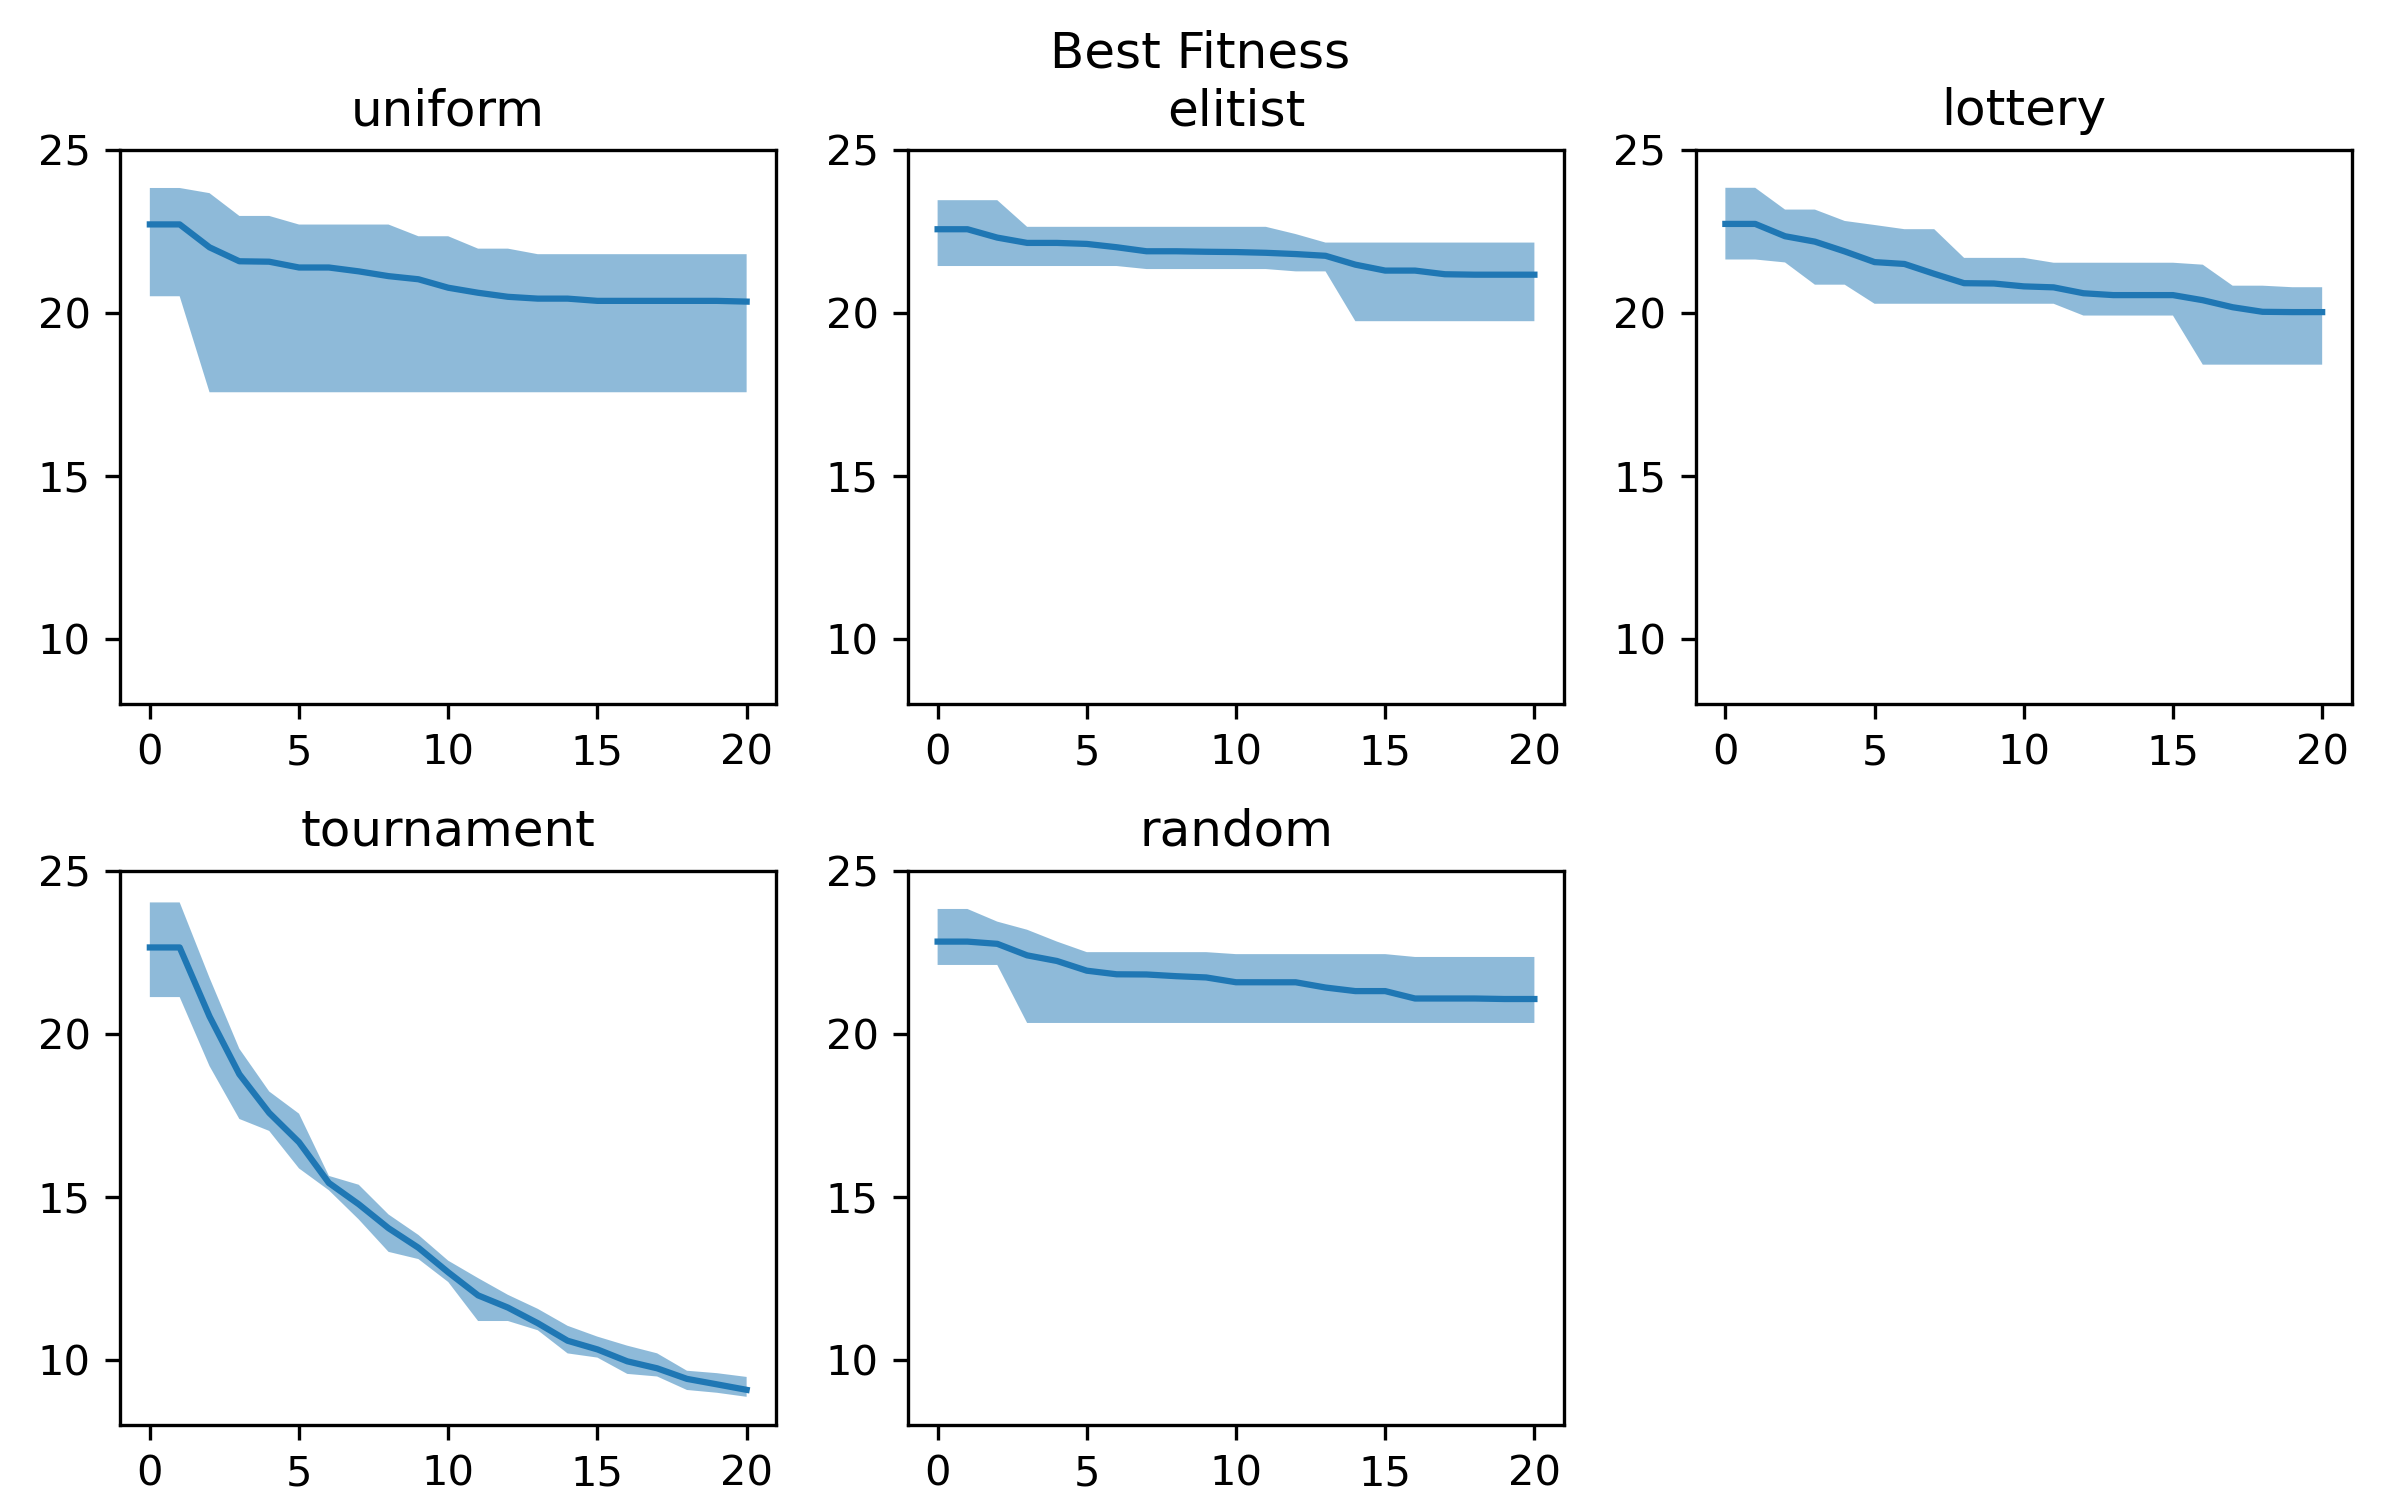
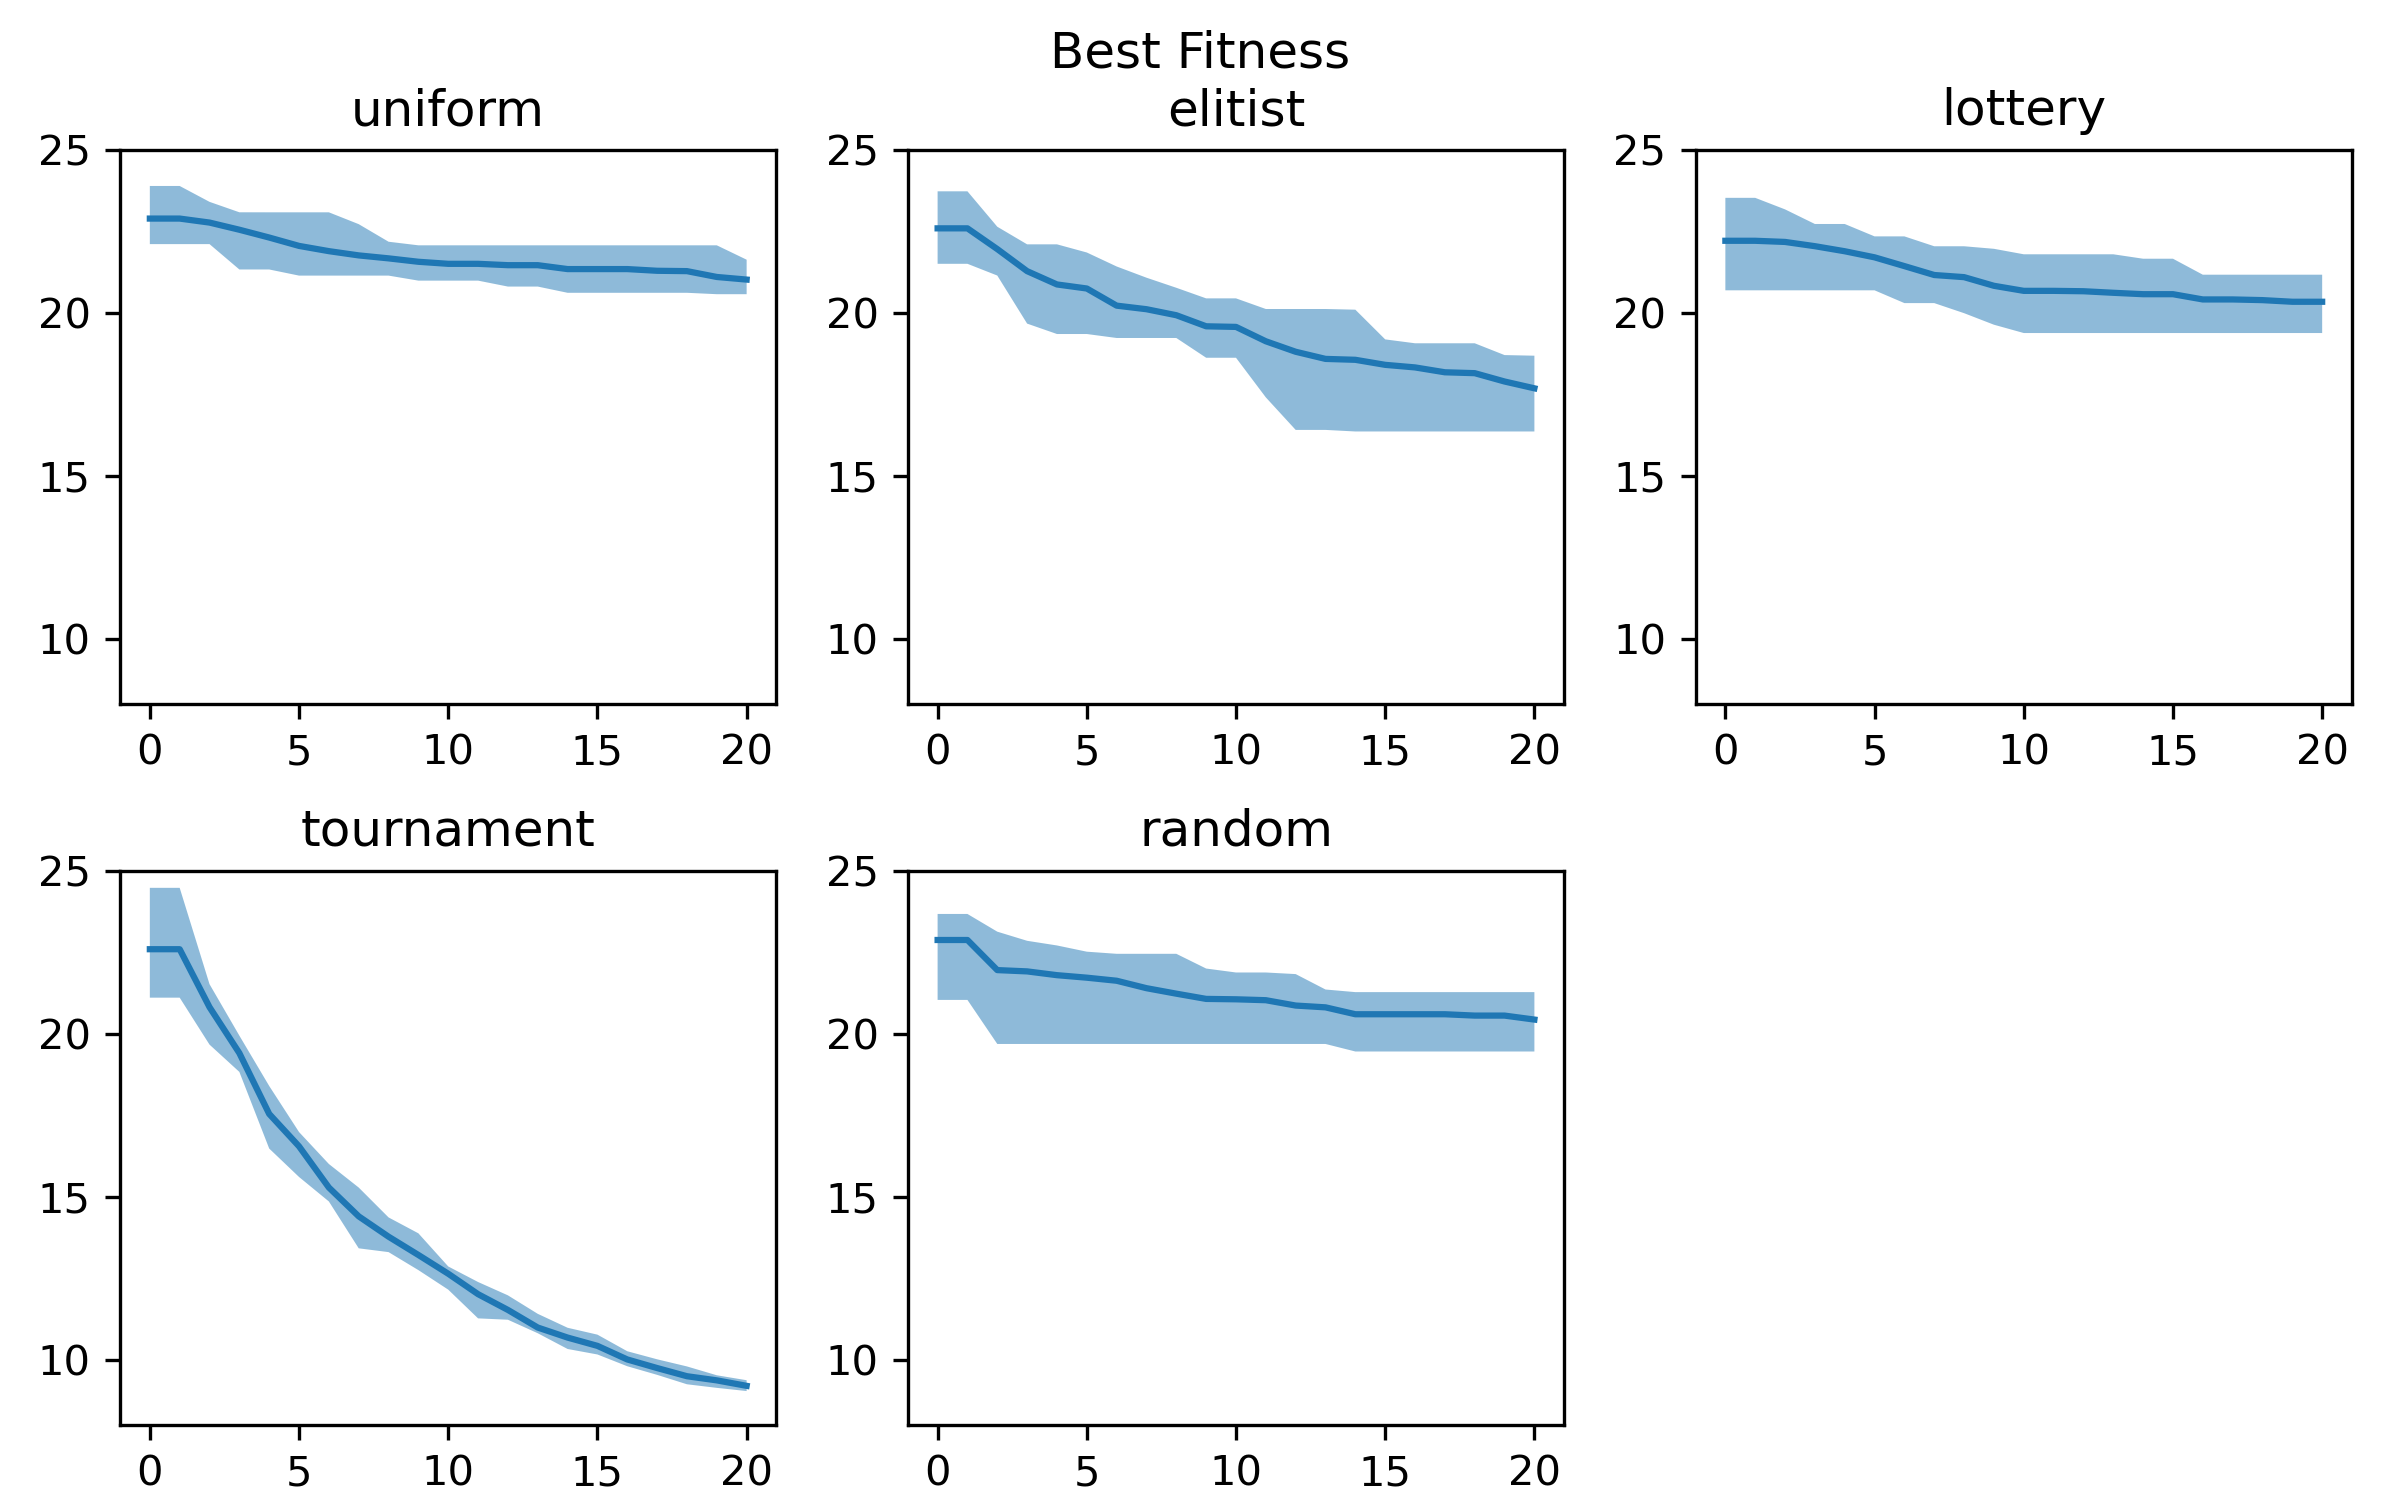
Update - publication

diff --git a/src/functions_pop.py b/src/functions_pop.py
@@ -28,14 +28,11 @@ def get_lottery(size_population, size_breeding, size_mutation, fitness):
     mutations = np.random.choice(size_population, size_mutation, replace=False, p = p)
     return parent1, parent2, mutations
 
-def get_selected_elements_lottery(size_population, size_breeding, p):
-    return 
-
-
 @jit(nopython = True)
 def get_elitist(size_breeding, size_mutation, fitness):
-    selected_elements = np.argsort(fitness); selected_elements[:size_breeding]
-    np.random.shuffle(selected_elements)
+    selected_elements = np.argsort(fitness); 
+    selected_elements_crossover = selected_elements[:size_breeding]
+    np.random.shuffle(selected_elements_crossover)
     #
     parent1 = selected_elements[:int(size_breeding/2)]
     parent2 = selected_elements[int(size_breeding/2):]
@@ -87,7 +84,6 @@ def generate_mutations(population, mutations):
 
 @jit(nopython = True)
 def get_new_pop(population, parent1, parent2, mutations):
-
     childs = generate_childs(population, parent1, parent2)
     mutants = generate_mutations(population, mutations)
     pop = np.vstack((childs, mutants))

diff --git a/src/genetic.py b/src/genetic.py
@@ -111,18 +111,6 @@ class geneticAlgo:
     def update_fitness(self):
         self.fitness = get_fitness(self.population, self.matrix)
         
-        # ESSAI CUDA
-        """
-        out = np.zeros(self.population.shape[0], dtype=np.int64)
-        threads_per_block = 128
-        blocks_per_grid = (self.population.shape[0] + (threads_per_block - 1)) // threads_per_block
-        d_a = cuda.to_device(self.population)
-        d_matrix = cuda.to_device(self.matrix)
-        d_out = cuda.to_device(out)
-        get_fitness_c[blocks_per_grid, threads_per_block](d_a, d_matrix, d_out)
-        out = d_out.copy_to_host()
-        """
-        
 
     def calculate_indicators(self):
         self.indicators["best_fitness"].append(np.min(self.fitness))

diff --git a/src/functions_basic.py b/src/functions_basic.py
@@ -15,19 +15,6 @@ def get_fitness(a, matrix):
         out[i] = summ
     return out
 
-"""
-   
-
-@cuda.jit('(int64[:,:], int64[:,:], int64[:])')
-def get_fitness_c(a, matrix, out):
-    i = cuda.grid(1)  # Get the index of the current thread
-    if i < a.shape[0]:
-        summ = 0
-        for j in range(29):
-            summ = summ + matrix[a[i,j],a[i,j+1]]        
-        out[i] = summ
-
-"""
 ##########################
 
 @jit(nopython = True)

diff --git a/README.md b/README.md
@@ -7,6 +7,8 @@
 
 Welcome to the pedagogical project on solving the Traveling Salesman Problem (TSP) using a Genetic Algorithm (GA). This repository aims to provide a clear and educational implementation of a GA to tackle the TSP, designed for students and educators.
 
+This repository supports a published article in Medium (**[see LINK](https://medium.com/@schrapff.ant/genetic-algorithms-for-unresolvable-optimization-problem-in-python-6c4fb43faa83)**): 
+
 ## Table of Contents
 
 - [Introduction](#introduction)
